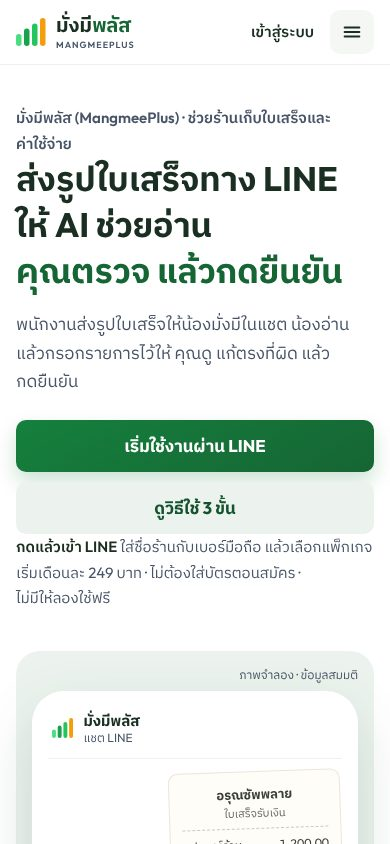
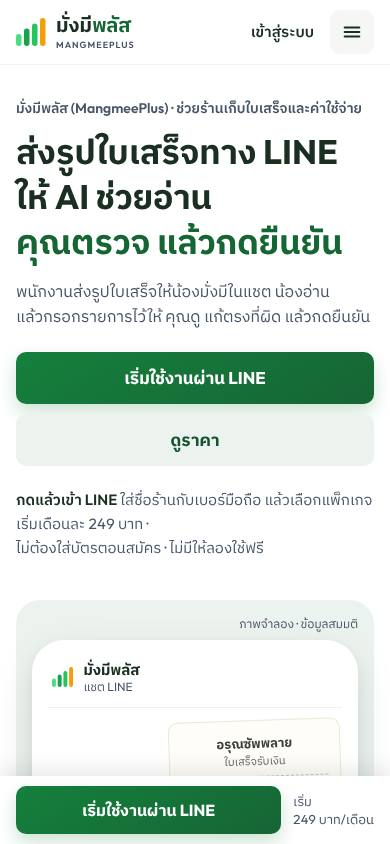
docs: v3 website reordered by buyer interest with one button system and emphasis shadows
Home now runs hero, 3 steps, pricing, jobs with น้องมั่งมี and the
ENTERPRISE band, trust, then what-it-is beside the FAQ. The chooser
folds under the price cards, the hero's second button goes to prices,
and phones get a sticky LINE button. Records button sizes, line
heights, two shadow tiers, the answer-based recommended badge and the
fix for a margin reset that cancelled component spacing.

Claude-Session: https://claude.ai/code/session_01J7ScAcuHmAWY52w61WzGcF

diff --git a/docs/prototypes/mangmee-main-website/v3/README.md b/docs/prototypes/mangmee-main-website/v3/README.md
@@ -96,6 +96,17 @@
 - แท็บและตัวเลือกที่เลือกแล้วเป็นพื้นเขียว แบบแท็บช่วงเวลาในแอป
 - ต่างจากแอปจุดเดียว: ปุ่มรองไม่มีเส้นขอบ ตามที่คุณขอ
 
+### รอบ 7: ปุ่ม ระยะบรรทัด เงา และลำดับเนื้อหา
+
+- **เรียงใหม่ตามสิ่งที่คนซื้ออยากรู้ก่อน:** ทำอะไร → ใช้ยังไง 3 ขั้น → ราคา → ใช้ทำอะไรได้ (รวมน้องมั่งมีกับแพ็กเกจธุรกิจไว้ในส่วนนี้) → เชื่อได้ไหม → สรุปและคำถาม → ปุ่มปิดหน้า
+- **เลื่อนน้อยลง:** หน้าแรกบนจอคอมยาวราว 6,000 px (เดิม 9,200) บนมือถือราว 10,900 px (เดิม 19,500) เอาภาพคลิป ภาพโทรศัพท์ชุดที่สอง และแถว “ทำได้อีก” ออก และย้าย “มั่งมีพลัสคืออะไร” ไปไว้ข้างคำถามที่พบบ่อย
+- **กดน้อยลง:** ทุกปุ่ม “เริ่มใช้งานผ่าน LINE” เปิด LINE ได้ในคลิกเดียว ปุ่มรองในภาพหลักเปลี่ยนเป็น “ดูราคา” ตัวช่วยเลือก 4 ข้อพับไว้ใต้การ์ดราคา มือถือมีปุ่มติดขอบล่างตลอด
+- **ปุ่ม:** ขนาดเดียวกันทั้งหน้า สูง 48 px (ภาพหลัก 52 px กว้างเท่ากันทั้งคู่) ตัวหนา มุม 10 px
+- **ระยะบรรทัด:** เนื้อความ 17 px สูงบรรทัด 1.65 หัวเรื่อง 1.3 แก้จุดที่ระยะห่างที่ตั้งไว้ไม่ทำงาน (กฎล้างระยะเดิมแรงกว่า) และกันคำสั้นตกบรรทัดเดียว
+- **เงา:** การ์ดทั่วไปเงาบาง การ์ดที่ต้องการให้เห็นก่อนเงาลึก ได้แก่ แพ็กเกจที่เหมาะ กล่องน้องมั่งมี แถบแพ็กเกจธุรกิจ ภาพแชต และกล่องปิดหน้า
+- **ป้ายแพ็กเกจที่เหมาะ:** บอกเหตุผลจากคำตอบ เช่น “เหมาะกับ 3–5 คน · 31–50 ใบ” แทน “เหมาะกับร้านคุณ”
+- **ช่องรอรีวิวจริง:** เปลี่ยนจากกรอบเส้นประเป็นพื้นเทา ไม่มีเส้น
+
 ## เรื่องที่รอคุณตัดสินใจ
 
 1. **ลิงก์เข้าสู่ระบบ** คุณให้ `app.mangmeeplus.com/login` แต่ระบบปัจจุบันใช้ `mangmeeplus.com/login` ตอนนี้ต้นแบบใช้ลิงก์ที่คุณให้ ต้องเลือกหนึ่งอัน
@@ -129,4 +140,5 @@
 - ตัวช่วยเลือกคำนวณราคาและจำนวนตรงกับแคตตาล็อก ทั้งรายเดือนและรายปี
 - ไม่พบลูกศร ชื่อแพ็กเกจภาษาอังกฤษ คำว่า ฟีเจอร์ แดชบอร์ด บทบาท หรือสีเขียวมะนาว ในกรอบหน้าแรกและหน้าราคา
 - คู่สีข้อความผ่าน WCAG AA ทุกคู่ ปุ่มหลัก 9.11:1 ปุ่มรอง 8.08:1 ตัวเลือกที่เลือกกับยังไม่เลือกต่างกัน 8.25:1 ไม่มีปุ่มที่มีเส้นขอบ
+- รอบ 7: เปิดหน้าใน Chromium ที่กว้าง 1440 และ 390 ไม่มีหน้าล้นซ้ายขวา แท็กเปิดปิดครบทุกกรอบ ภาพอยู่ใน `docs/evidence/main-website-prototype-2026-10-20/v3/`
 - ไม่ได้เปิด PR ไม่ได้รัน GitHub Actions ไม่ได้ deploy และไม่ได้แตะ AWS, UAT, Production หรือ LINE

diff --git a/docs/agent-memory/mangmee-main-website-prototype-2026-10-20.md b/docs/agent-memory/mangmee-main-website-prototype-2026-10-20.md
@@ -232,3 +232,23 @@ Decisions:
 
 Verification:
 - Chromium render 1440/390: no horizontal overflow on home or pricing; tags balanced on 5 boards. Screenshots refreshed in ../evidence/main-website-prototype-2026-10-20/v3/.
+
+## Revision 3g — buttons, line height, emphasis shadows, order by interest
+
+Status: Complete — prototype only.
+Trigger: Owner: adjust buttons and line spacing, add shadow to emphasised cards, order by interest, finish in few clicks, understand in few scrolls.
+
+Decisions:
+- Home order: hero → 3 steps (+ compact "AI can be wrong" card) → pricing (chooser collapsed in <details>) → jobs + น้องมั่งมี + ENT band → trust → what-it-is beside FAQ → close. Nav follows the same order. Removed video placeholder, second phone mock, "also" row, standalone #what section.
+- Buttons: one system (.btn 48px, .btn-lg 52px min-width 220 so the hero pair matches, .btn-sm in header), radius 10, weight 700; hero secondary is "ดูราคา" → #pricing. Mobile sticky .mbar (≤700px) with the LINE CTA and "เริ่ม 249 บาท/เดือน".
+- Type: body 17/1.65, headings 1.3, h3 20/1.4, lead 18/1.6, section padding 80 (56 mobile); `p,li,dd{text-wrap:pretty}` against one-word Thai last lines.
+- Bug fixed: `.pg p{margin:0}` (0,1,1) silently beat single-class margins such as `.after{margin-top}`; reset now uses `:where()` so component spacing applies.
+- Shadows: .card --sh-sm; .card-hi / .plan-rec / close / hero phone use --sh-lg (0 18px 44px). Proof placeholders are grey fills, no dashed border.
+- Recommended badge is derived from the answers ("เหมาะกับ 3–5 คน · 31–50 ใบ", tax, or branches) instead of "เหมาะกับร้านคุณ".
+- Pricing boards rebuilt from Main's styles + pricing section (chooser open) + comparison table, 4 next steps, pricing FAQ.
+
+Verification:
+- Chromium render (scratch renderer): home 1440 scrollWidth 1440 height 5963; 390 scrollWidth 390 height 10860; pricing 1440/390 no overflow (3121 / 5446). Tags balanced; FAQ block filled from faq_th.py (14 items). Published canvas version 15.
+- Limits: renderer approximates the canvas runtime; no real device, zoom or screen-reader pass; sticky bar position seen only in full-page screenshot.
+
+Next: owner decisions in README unchanged (login link, Production check of 20 Oct features, VAT, STARTER promotion, title, root domain, llms.txt, demo clip, real screenshots/reviews).
